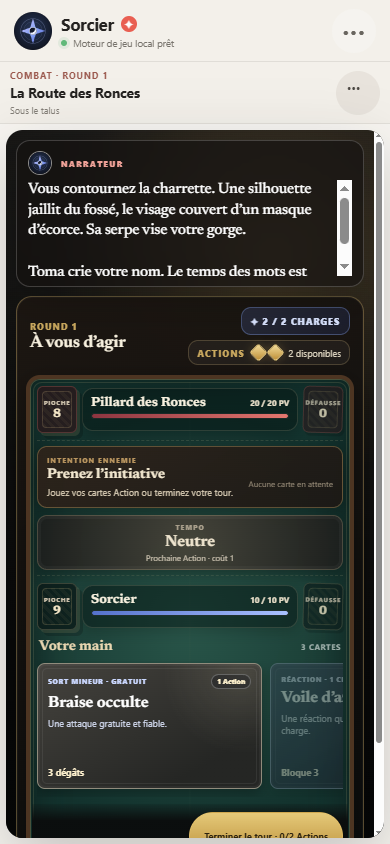
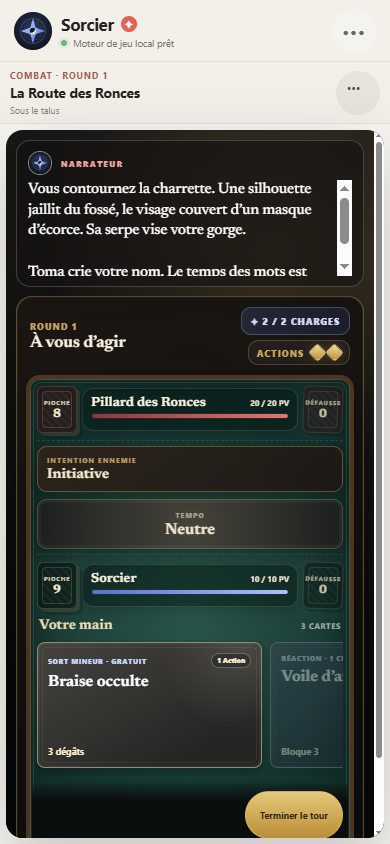
Simplify mobile combat interface

Changed region(s): [[0.0615, 0.5545, 0.8923, 1.0], [0.4923, 0.4005, 0.8923, 0.4313], [0.9538, 0.8626, 0.9846, 0.8934]]

diff --git a/src/renderer/styles.css b/src/renderer/styles.css
@@ -434,6 +434,13 @@ html.pwa, html.pwa body, html.pwa .app-shell, html.pwa .conversation { height: 1
 html.pwa body { position: fixed; inset: 0; width: 100%; }
 html.pwa .composer-wrap { display: none; }
 html.pwa .chat-header, html.pwa .narrative-bar { flex: 0 0 auto; }
+html.pwa.combat-running .combat-intent p,
+html.pwa.combat-running .combat-intent small,
+html.pwa.combat-running .combat-tempo small,
+html.pwa.combat-running .combat-card small,
+html.pwa.combat-running .combat-action-track small {
+  display: none;
+}
 .pwa-boot-error { min-height: 100dvh; display: grid; place-content: center; gap: 14px; padding: 28px; text-align: center; }
 .pwa-boot-error button { min-height: 48px; border: 0; border-radius: 14px; color: #fff; background: var(--coral); }
 
@@ -731,7 +738,7 @@ html.pwa .chat-header, html.pwa .narrative-bar { flex: 0 0 auto; }
   html.pwa .combat-charges { padding: 6px 8px; }
 
   html.pwa .combat-board {
-    grid-template-columns: minmax(0, 1fr) minmax(280px, 1.25fr) minmax(0, 1fr);
+    grid-template-columns: minmax(0, 1.2fr) minmax(200px, 1fr) minmax(0, 1.2fr);
     align-items: stretch;
     gap: 5px;
     padding: 6px;
@@ -763,12 +770,21 @@ html.pwa .chat-header, html.pwa .narrative-bar { flex: 0 0 auto; }
   html.pwa .fighter { grid-template-columns: 32px minmax(0, 1fr); gap: 4px; }
   html.pwa .fighter.enemy { grid-template-columns: minmax(0, 1fr) 32px; }
   html.pwa .fighter-token { width: 32px; height: 32px; border-width: 2px; font-size: 15px; }
+  html.pwa.combat-running .fighter,
+  html.pwa.combat-running .fighter.enemy {
+    grid-template-columns: minmax(0, 1fr);
+  }
+  html.pwa.combat-running .fighter-token { display: none; }
+  html.pwa.combat-running .fighter.enemy .fighter-sheet {
+    grid-column: 1;
+    grid-row: 1;
+  }
   html.pwa .fighter-sheet { gap: 4px; padding: 5px 6px; }
   html.pwa .fighter-sheet > div:first-child { align-items: center; gap: 5px; }
   html.pwa .fighter span { font-size: 12px; }
   html.pwa .fighter b { font-size: 7px; }
   html.pwa .combat-table-center {
-    grid-template-columns: minmax(0, 1fr) 94px;
+    grid-template-columns: minmax(0, 1fr) 84px;
     gap: 5px;
     padding: 0;
     border: 0;
@@ -784,6 +800,7 @@ html.pwa .chat-header, html.pwa .narrative-bar { flex: 0 0 auto; }
   html.pwa .combat-card { min-height: 104px; padding: 8px; }
   html.pwa.combat-running .combat-cards { min-height: 0; height: 100%; }
   html.pwa.combat-running .combat-card { height: 100%; min-height: 0; }
+  html.pwa.combat-running .combat-card strong { font-size: 18px; }
   html.pwa .combat-controls {
     position: sticky;
     z-index: 4;

diff --git a/tools/capture-pwa-qa.js b/tools/capture-pwa-qa.js
@@ -171,6 +171,23 @@ function inspect(window) {
         Math.min(innerHeight, document.querySelector('#combat-panel').getBoundingClientRect().bottom)
           - Math.max(0, document.querySelector('#combat-panel').getBoundingClientRect().top),
       )),
+      explanatoryTextVisible: [
+        '#combat-intent-text',
+        '#combat-enemy-hand-count',
+        '#combat-tempo-cost',
+        '.combat-card small',
+        '.combat-action-track small',
+      ].flatMap((selector) => [...document.querySelectorAll(selector)]).filter((item) => {
+        const style = getComputedStyle(item);
+        const rect = item.getBoundingClientRect();
+        return style.display !== 'none' && style.visibility !== 'hidden' && rect.width > 0 && rect.height > 0;
+      }).length,
+      fighterTokensVisible: [...document.querySelectorAll('.fighter-token')].some((item) => {
+        const style = getComputedStyle(item);
+        const rect = item.getBoundingClientRect();
+        return style.display !== 'none' && style.visibility !== 'hidden' && rect.width > 0 && rect.height > 0;
+      }),
+      endTurnText: document.querySelector('#combat-end-turn').textContent,
       ready: window.CANDY_PWA_READY === true,
     };
   })()`).then(async (layout) => ({
@@ -200,6 +217,9 @@ function assertLandscapeLayout(layout) {
     || layout.sceneHeight !== layout.height
     || layout.combatTop > 8
     || layout.combatVisibleHeight < 380
+    || layout.explanatoryTextVisible !== 0
+    || layout.fighterTokensVisible
+    || layout.endTurnText !== 'Terminer le tour'
     || layout.minTouchTarget < 44
   ) {
     throw new Error(`Vue mobile paysage invalide : ${JSON.stringify(layout)}`);

diff --git a/src/renderer/app.js b/src/renderer/app.js
@@ -416,7 +416,7 @@ function renderCombat(combat, combatItems = []) {
   $('#combat-player-meter').style.width = `${(combat.player.hp / combat.player.maxHp) * 100}%`;
   $('#combat-enemy-meter').style.width = `${(combat.enemy.hp / combat.enemy.maxHp) * 100}%`;
   const pendingDisadvantage = combat.pendingAttack?.effect?.status?.id === 'disadvantage';
-  setText('#combat-intent-title', combat.pendingAttack?.name || 'Prenez l’initiative');
+  setText('#combat-intent-title', combat.pendingAttack?.name || 'Initiative');
   setText(
     '#combat-intent-text',
     combat.pendingAttack
@@ -562,7 +562,7 @@ function renderCombat(combat, combatItems = []) {
   $('#combat-potion b').textContent = `×${potion?.count || 0}`;
   $('#combat-end-turn').hidden = combat.phase !== 'player';
   $('#combat-end-turn').disabled = false;
-  $('#combat-end-turn').textContent = `Terminer le tour · ${combat.player.actionsPlayed}/${combat.player.actionLimit} Actions`;
+  $('#combat-end-turn').textContent = 'Terminer le tour';
   $('#combat-pass').hidden = combat.phase !== 'reaction';
   $('#combat-pass').disabled = false;
   $('#combat-log').replaceChildren(...combat.log.slice(-4).reverse().map((entry) => {

diff --git a/artifacts/context/current-project-map.md b/artifacts/context/current-project-map.md
@@ -4,9 +4,9 @@
 
 ## Référence
 
-- **Empreinte :** `b5a469d3603c187e`
-- **Générée :** 2026-07-24T11:34:07.066Z
-- **Git informatif :** branche `main`, HEAD `7b810cb23d47`, 12 entrée(s) dans le worktree
+- **Empreinte :** `b8eb2fc4731b0bd8`
+- **Générée :** 2026-07-24T14:09:41.439Z
+- **Git informatif :** branche `main`, HEAD `fd680de8694e`, 14 entrée(s) dans le worktree
 - **Comparaison fiable :** les changements sont détectés par le contenu des fichiers, même si le worktree n'est pas commité.
 - **Boucle active :** `artifacts/loops/006-jouer-sur-mobile.md` — `à jouer`
 - **Dernier verdict :** `artifacts/loops/003-la-cage-du-treuil.md` — `garder`
@@ -15,14 +15,14 @@
 
 | Domaine | Empreinte | Fichiers repères | Validation |
 | --- | --- | --- | --- |
-| Règles et boucle | `6a03c006eb34` | `AGENTS.md`<br>`.agents/skills/conduire-boucle-fantasy-story/SKILL.md`<br>`artifacts/loops/006-jouer-sur-mobile.md` | validateur du skill, puis `git diff --check` |
+| Règles et boucle | `85f3658d7d94` | `AGENTS.md`<br>`.agents/skills/conduire-boucle-fantasy-story/SKILL.md`<br>`artifacts/loops/006-jouer-sur-mobile.md` | validateur du skill, puis `git diff --check` |
 | Livre et structure | `04a19fa95a85` | `content/chapters/`<br>`src/server/story-format.js`<br>`src/server/narrative-tree.js` | `npm run verify:story` et tests narratifs ciblés |
 | État et sauvegarde | `bb640c6b1f6c` | `src/server/state-schema.js`<br>`src/server/story-repository.js`<br>`src/server/book-session-service.js` | `npm run check` et tests de persistance ciblés |
 | Moteur | `2d2469ef6342` | `src/server/branching-book-runtime.js`<br>`src/server/combat-engine.js`<br>`src/server/progression-service.js` | `npm run check` et tests moteur ciblés |
-| Application et interface | `61b718f25286` | `src/main.js`<br>`src/preload.js`<br>`src/renderer/app.js`<br>`src/renderer/styles.css` | `npm run qa:visual` si le rendu ou l'interaction change |
+| Application et interface | `44ef51ea256e` | `src/main.js`<br>`src/preload.js`<br>`src/renderer/app.js`<br>`src/renderer/styles.css` | `npm run qa:visual` si le rendu ou l'interaction change |
 | Ressources visuelles | `ba0aafb0ffd7` | `src/renderer/assets/`<br>`content/visuals/`<br>`tools/capture-visual-qa.js` | licences, puis `npm run qa:visual` si l'affichage change |
 | Tests | `dbd681c8bd84` | `test/` | test ciblé du contrat modifié |
-| Configuration et reste du projet | `2c759e3c13fe` | `package.json`<br>`README.md`<br>`.gitignore` | validation dictée par le domaine concerné |
+| Configuration et reste du projet | `76032031b86e` | `package.json`<br>`README.md`<br>`.gitignore` | validation dictée par le domaine concerné |
 
 ## Démarrage d'une boucle
 

diff --git a/artifacts/loops/006-jouer-sur-mobile.md b/artifacts/loops/006-jouer-sur-mobile.md
@@ -40,6 +40,7 @@ Installer ou ouvrir la PWA → démarrer La Route des Ronces → choisir l’anc
   - le manifeste, les icônes 180/192/512, le service worker et le build autonome rendent le jeu installable et jouable hors ligne ;
   - à 390 × 844, la hiérarchie reste stable, les cibles tactiles mesurent au moins 44 px et la main de combat se parcourt horizontalement ;
   - à 844 × 390, le combat remplace entièrement la coque applicative, occupe le viewport bord à bord et réunit adversaire, intention, Tempo, Sorcier, main et contrôles dans une table sombre horizontale, sans dupliquer l’interface ;
+  - les descriptions permanentes, sous-textes répétitifs et jetons provisoires disparaissent du combat PWA ; seuls restent noms, coûts, états, valeurs et actions ;
   - un choix, l’entrée en combat et une carte jouée survivent à un rechargement complet puis à un redémarrage sans serveur.
 - **Preuves :** `npm run check` et `npm run qa:pwa` réussissent pour la passe mobile ; captures `pwa-route-390x844.png`, `pwa-combat-390x844.png` et `pwa-combat-landscape-844x390.png`.
 - **Reste incertain :** confort du plateau corrigé sur le téléphone physique du joueur.

diff --git a/.agents/skills/concevoir-visuels-fantasy-story/SKILL.md b/.agents/skills/concevoir-visuels-fantasy-story/SKILL.md
@@ -53,6 +53,7 @@ Ne pas multiplier les variantes avant d'avoir appris quelque chose de la premiè
 - Traiter l'écran comme un jeu et non comme un tableau de bord.
 - Conserver une hiérarchie stable quand l'écran se compacte.
 - Rendre visibles l'application, la durée et la consommation d'un état sans dépendre uniquement de la couleur.
+- Supprimer de l'interface finale tous les sous-textes, descriptions explicatives, aides permanentes et phrases qui répètent une information déjà portée par un nom, une valeur, un coût, un état, une icône ou une action. Ne conserver à l'écran que le texte directement nécessaire pour choisir ou agir.
 
 ### Cartes
 
